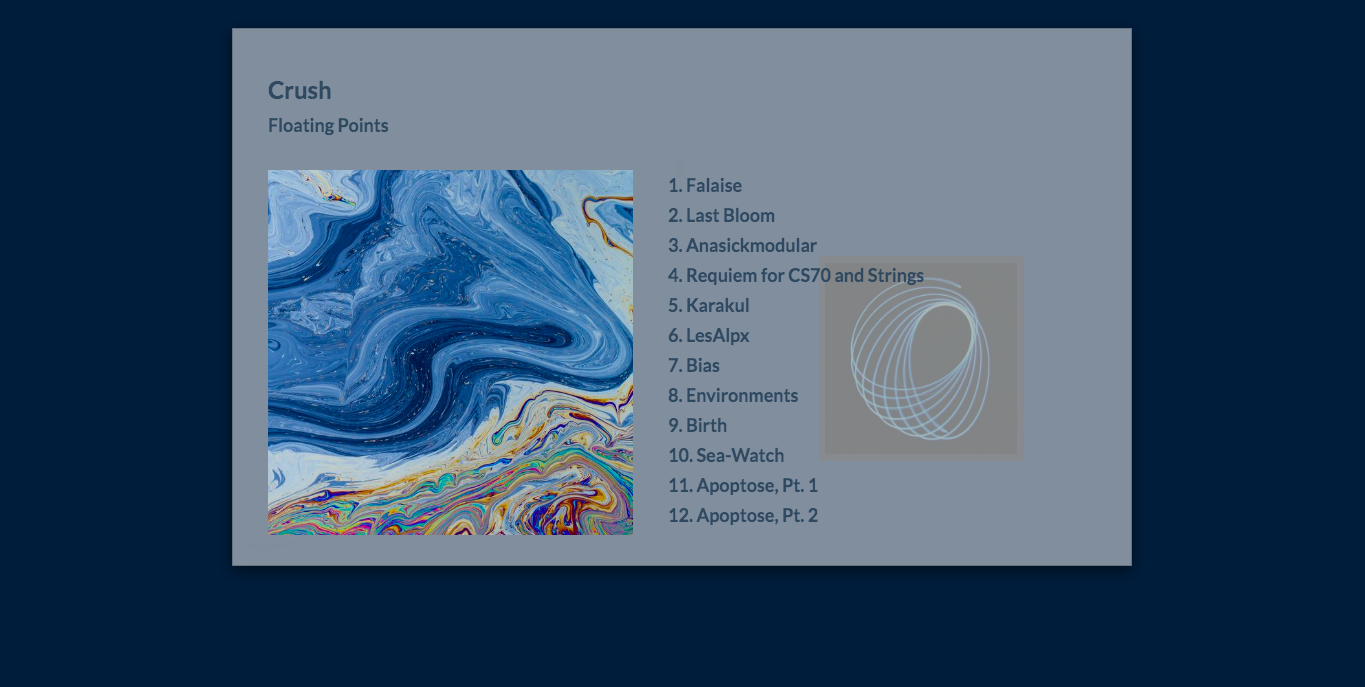
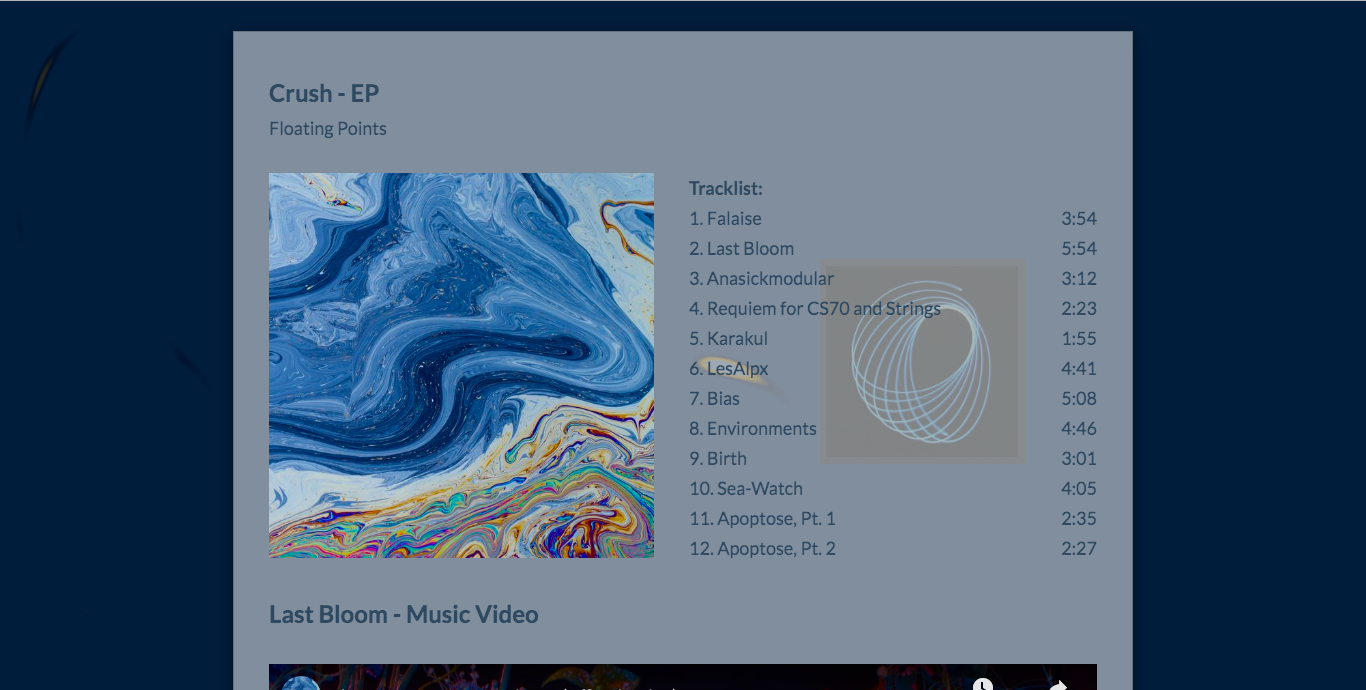
scrollable overlays working

diff --git a/index.html b/index.html
@@ -438,46 +438,62 @@
     <div class="modal-dialog modal-lg">
         <div class="modal-content">
             <div class="modal-body">
-                <font size="5"><b>Crush<b></font><br/>
+                <font size="5"><b>Crush - EP</b></font><br/>
                 <font size="4">Floating Points</font><br/>
                 <br/>
-                <p> <img style="width:400px ; padding: 0px 35px 0px 0px;" src="Crush.jpg" align="left"/>
-                    1. Falaise <br/>
-                    2. Last Bloom <br/>
-                    3. Anasickmodular <br/>
-                    4. Requiem for CS70 and Strings <br/>
-                    5. Karakul <br/>
-                    6. LesAlpx <br/>
-                    7. Bias <br/>
-                    8. Environments <br/>
-                    9. Birth <br/>
-                    10. Sea-Watch <br/>
-                    11. Apoptose, Pt. 1 <br/>
-                    12. Apoptose, Pt. 2 
+                <p> 
+                    <a href="https://floatingpoints.bandcamp.com/album/crush"><img style="width:420px ; padding: 0px 35px 0px 0px;" src="Crush.jpg" align="left"/></a>
+                    <b>Tracklist:</b> <br/>
+                    <p style="text-align:left;">1. Falaise<span style="float:right;">3:54</span></p>
+                    <p style="text-align:left;">2. Last Bloom<span style="float:right;">5:54</span></p>
+                    <p style="text-align:left;">3. Anasickmodular <span style="float:right;">3:12</span></p>
+                    <p style="text-align:left;">4. Requiem for CS70 and Strings <span style="float:right;">2:23</span></p>
+                    <p style="text-align:left;">5. Karakul<span style="float:right;">1:55</span></p>
+                    <p style="text-align:left;">6. LesAlpx<span style="float:right;">4:41</span></p>
+                    <p style="text-align:left;">7. Bias<span style="float:right;">5:08</span></p>
+                    <p style="text-align:left;">8. Environments <span style="float:right;">4:46</span></p>
+                    <p style="text-align:left;">9. Birth <span style="float:right;">3:01</span></p>
+                    <p style="text-align:left;">10. Sea-Watch<span style="float:right;">4:05</span></p>
+                    <p style="text-align:left;">11. Apoptose, Pt. 1 <span style="float:right;">2:35</span></p>
+                    <p style="text-align:left;">12. Apoptose, Pt. 2<span style="float:right;">2:27</span></p>
+                    <br/>
                 </p>
+
+                <font size="5"><b>Last Bloom - Music Video</b></font><br/><br/>
+
+                <object width="100%" height="450"data="https://www.youtube.com/embed/0x0t1l7QeeY"></object>
             </div>
         </div>
     </div>
 </div>
 
-<a href="#about2" id="about2"><img style="width:100%" src="Ratio.jpg"/></a>
+<a href="#" id="about2"><img style="width:100%" src="Ratio.jpg"/></a>
 
-<div class="modal fade" id="aboutModal" tabindex="-1" role="dialog" aria-labelledby="basicModal" aria-hidden="true">
+<div class="modal fade" id="aboutModal2" tabindex="-1" role="dialog" aria-labelledby="basicModal" aria-hidden="true">
     <div class="modal-dialog modal-lg">
         <div class="modal-content">
             <div class="modal-body">
-                <<font size="5"><b>Ratio<b></font><br/>
+                <font size="5"><b>Ratio - LP</b></font><br/>
                 <font size="4">Floating Points</font><br/>
                 <br/>
                 <p>
-                    <img style="width:400px ; padding: 0px 35px 0px 0px;" src="Ratio.jpg" align="left"/>
-                    1. Ratio - Full Mix <br/>
-                    2. Ratio - Edit 
+                    <a href="https://floatingpoints.bandcamp.com/track/ratio-full-mix"><img style="width:420px ; padding: 0px 35px 0px 0px;" src="Ratio.jpg" align="left"/></a>
+                    <b>Tracklist:</b> <br/>
+                    <p style="text-align:left;">1. Ratio - Full Mix<span style="float:right;">18:48</span></p>
+                    <p style="text-align:left;">2. Ratio - Edit<span style="float:right;">3:21</span></p>
+                    <br/> <br/> <br/> <br/> <br/> <br/> <br/> <br/> <br/> <br/> <br/>
                 </p>
+
+                <font size="5"><b>Ratio (Full Mix) - Music Video</b></font><br/><br/>
+
+                <!-- iframe gives white boundary on two sides
+                <iframe width="100%" height="450" align="center" src="https://www.youtube.com/embed/AZiJxNTdzwI"></iframe> -->
+                <object width="100%" height="450"data="https://www.youtube.com/embed/AZiJxNTdzwI"></object>
             </div>
         </div>
     </div>
 </div>
+
 
 
 <!--

diff --git a/js/main.js b/js/main.js
@@ -37,6 +37,11 @@ function init() {
         $("#aboutModal").modal('show');
     });
 
+    $("#about2").click(function(e){
+        e.preventDefault();
+        $("#aboutModal2").modal('show');
+    });
+
     canvas = document.getElementById("glcanvas");
     body = document.getElementsByTagName("body")[0];
 

diff --git a/main.css b/main.css
@@ -27,6 +27,10 @@ canvas {
     height: 100%;
 }
 
+p {
+  margin: 0px;
+}
+
 /* centering happens from top right point */
 
 #about{

diff --git a/README.md b/README.md
@@ -4,6 +4,8 @@ Website for the musician Floating points that uses WebGL shader for mixed grid-p
 
 ## Simulation 
 
+**Instrutctions:** Move the mouse over the webpage to apply a force to the fluid. Over time, the colored material in the fluid will dissipate.
+
 <img style="width:100%" src="example.png"/>
 
 This simulation solves the <a href="https://en.wikipedia.org/wiki/Navier%E2%80%93Stokes_equations" target="_blank">Navier-Stokes equations</a> for incompressible fluids in a GPU fragment shader.
@@ -11,12 +13,6 @@ I implemented <a href="https://en.wikipedia.org/wiki/No-slip_condition" target="
 To increase performance, I solved for the velocity vector field of the fluid at a lower resolution than I used to compute the visualization of fluid flow; I used bilinear interpolation to smooth out artifacts caused by this speedup.
 There is the option to add <a href="https://en.wikipedia.org/wiki/Lagrangian_particle_tracking" target="_blank">Lagrangian particles</a> on top of the simulation -
 these particles are rendered using <a href="https://threejs.org/" target="_blank">threejs</a>, but their positions are computed on the GPU.
-
-<img style="width:100%" src="example2.png"/>
-
-## Instrutctions
-
-Move the mouse over the webpage to apply a force to the fluid. Over time, the colored material in the fluid will dissipate.
 
 ## Maths
 
@@ -28,26 +24,15 @@ Though not WebGL specific, it was still very useful.<br/>
 3. <a href="http://jamie-wong.com/2016/08/05/webgl-fluid-simulation/" target="_blank">Fluid Simulation (with WebGL demo)</a> - this article has some nice, interactive graphics that helped me debug my code.<br/>
 4. <a href="http://www.dgp.toronto.edu/people/stam/reality/Research/pdf/ns.pdf" target="_blank">Stable Fluids</a> - a paper about stable numerical methods for evaluating Navier-Stokes on a discrete grid.
 
+## Pages
+
+The two clickable buttons bring up scrollable overlays containing the album artwork which is a clickable link to bandcamp where the album/EP can be purchased, track listing and a music video. Either side of the overlays the mouse cursor can still be used to induce a force on the background.
+
+<img style="width:100%" src="example2.png"/>
+
+
 ## Credits
 
 Fluid simulation framework by <a href="http://www.amandaghassaei.com/" target="_blank">Amanda Ghassaei</a>, code on <a href="https://github.com/amandaghassaei/FluidSimulation" target="_blank">Github</a>.
           
 Website design by Jamie Edwards, jmcedwards@live.co.uk.      
-
-## Issues
-
-The left button works and when clicked brings up the information about that album, bellow is the html code for the button and page it brings up (in the file index.html).
-
-<img style="width:100%" src="left_button_html.png"/>
-
-The css for the left button is shown bellow (in the file main.css).
-
-<img style="width:100%" src="left_button_css.png"/>
-
-However the right button doesn't work. I am unsure how to link the button to bring up the page in the same way as with the left button. I recon the issue is with the href line (line 463) as shown bellow along with the page it's supposed to bring up.
-
-<img style="width:100%" src="right_button_html.png"/>
-
-The css for the right button is shown bellow (in the file main.css).
-
-<img style="width:100%" src="right_button_css.png"/>
